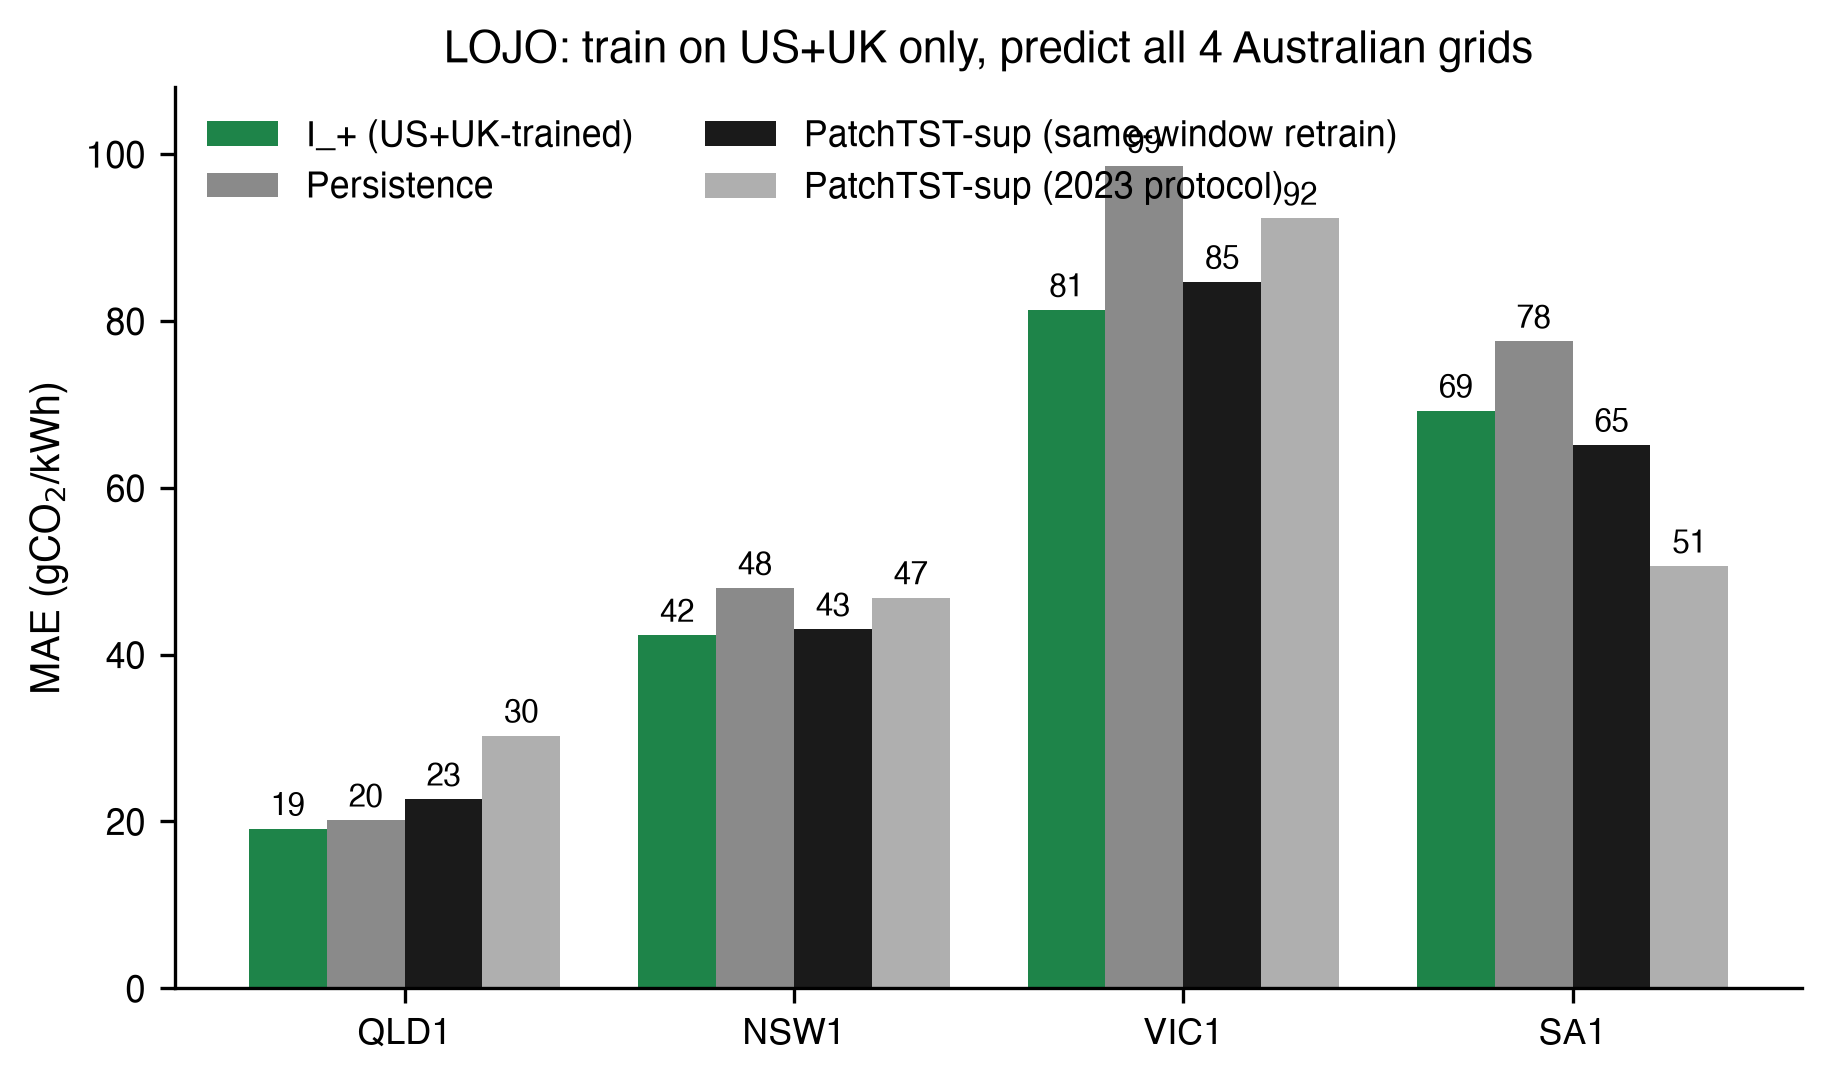
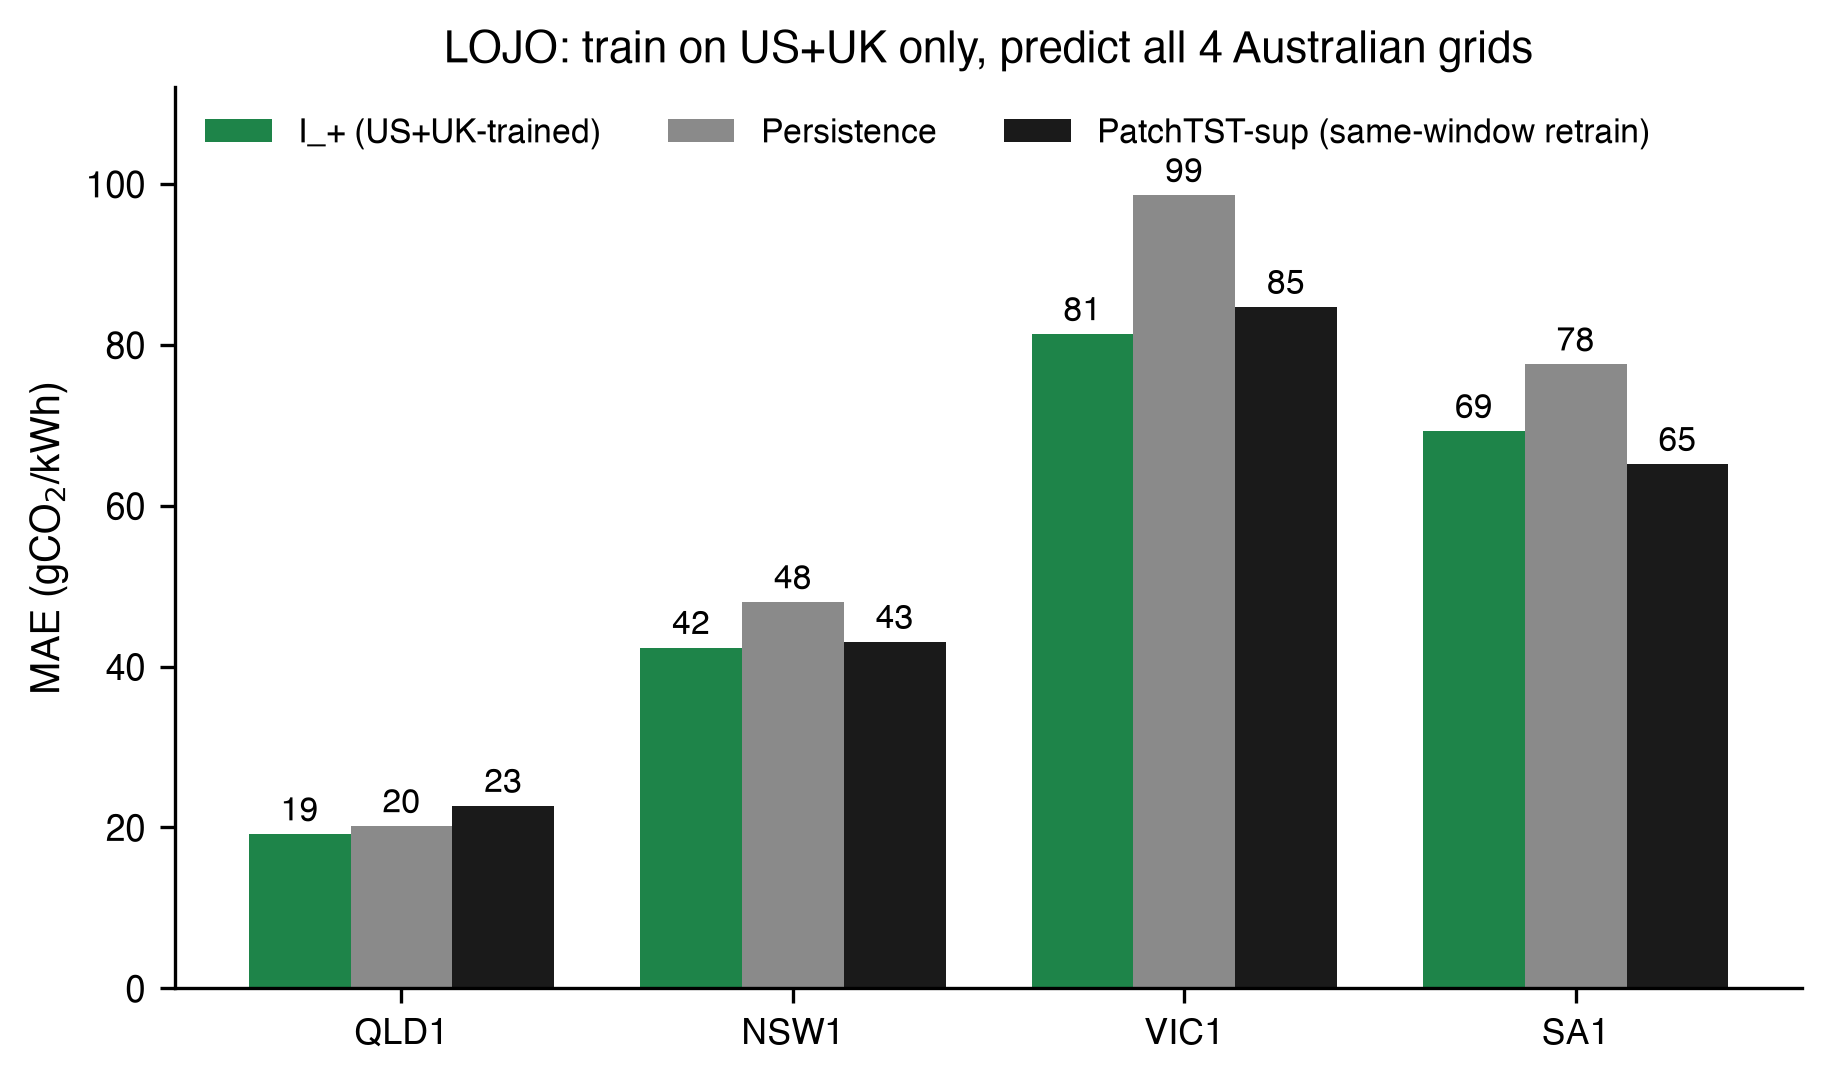
paper: unify Table 2 supervised baseline to gap4 same-window retrain (22.7/43.0/84.7/65.2); LOJO fig to 3-bar same-window protocol; 3/4-beats-supervised holds (−16%/−1.7%/−4.0%/+6.3%)

diff --git a/scripts/figures/make_fd_paper_figures.py b/scripts/figures/make_fd_paper_figures.py
@@ -122,26 +122,23 @@ def fig_lojo():
 
     iplus = [next(x for x in lojo if x["target"] == t)["mae_ensemble_iplus"] for t in targets]
     persist = [gap4[t]["persistence_mae"] for t in targets]
-    sup_2023 = [30.3, 46.8, 92.3, 50.6]  # 2023-protocol supervised (paper Table 2)
-    sup_retrain = [(gap4[t]["patchtst_mae_s0"] + gap4[t]["patchtst_mae_s1"]) / 2
-                   for t in targets]
+    sup = [(gap4[t]["patchtst_mae_s0"] + gap4[t]["patchtst_mae_s1"]) / 2
+           for t in targets]
 
     x = np.arange(4)
-    w = 0.2
+    w = 0.26
     fig, ax = plt.subplots(figsize=(7.0, 3.9))
-    b1 = ax.bar(x - 1.5 * w, iplus, w, color=C["green"], label="I_+ (US+UK-trained)")
-    b2 = ax.bar(x - 0.5 * w, persist, w, color=C["grey"], label="Persistence")
-    b3 = ax.bar(x + 0.5 * w, sup_retrain, w, color=C["black"], label="PatchTST-sup (same-window retrain)")
-    b4 = ax.bar(x + 1.5 * w, sup_2023, w, color=C["black"], alpha=0.35,
-                label="PatchTST-sup (2023 protocol)")
-    for bars in (b1, b2, b3, b4):
-        ax.bar_label(bars, fmt="%.0f", fontsize=7.5, padding=2)
+    b1 = ax.bar(x - w, iplus, w, color=C["green"], label="I_+ (US+UK-trained)")
+    b2 = ax.bar(x, persist, w, color=C["grey"], label="Persistence")
+    b3 = ax.bar(x + w, sup, w, color=C["black"], label="PatchTST-sup (same-window retrain)")
+    for bars in (b1, b2, b3):
+        ax.bar_label(bars, fmt="%.0f", fontsize=8, padding=2)
     ax.set_xticks(x)
     ax.set_xticklabels(labels)
     ax.set_ylabel("MAE (gCO$_2$/kWh)")
     ax.set_title("LOJO: train on US+UK only, predict all 4 Australian grids")
-    ax.legend(frameon=False, ncols=2, loc="upper left")
-    ax.set_ylim(0, 108)
+    ax.legend(frameon=False, ncols=3, loc="upper left", fontsize=8)
+    ax.set_ylim(0, 112)
     save(fig, "lojo")
 
 
